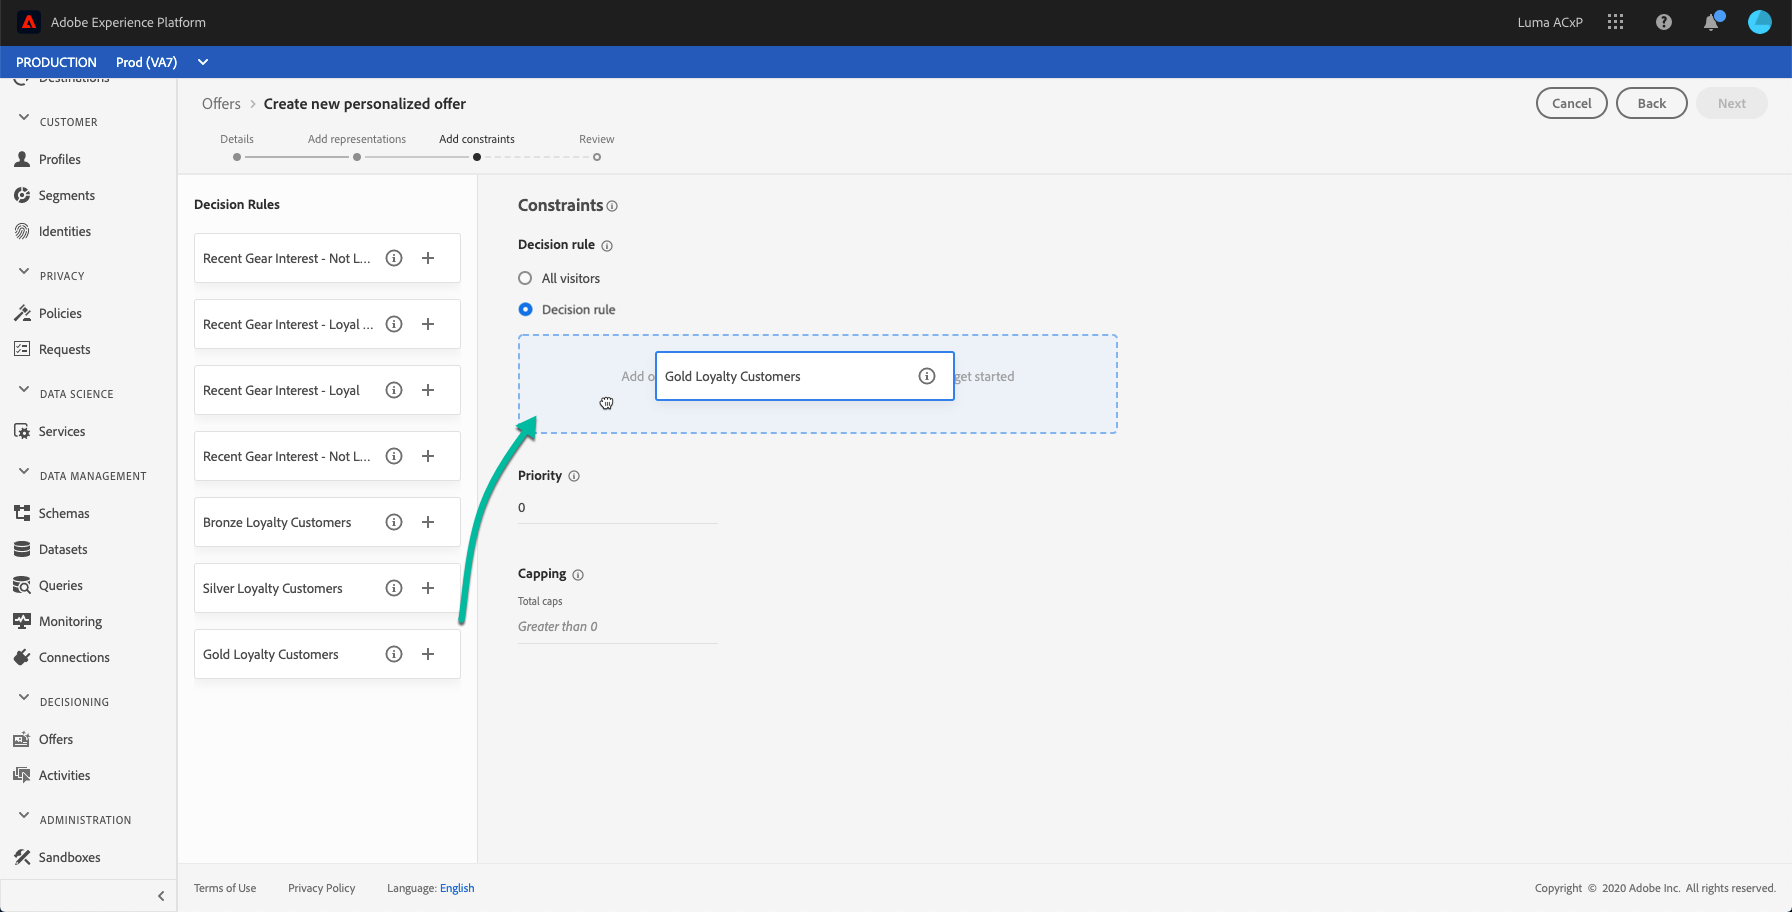
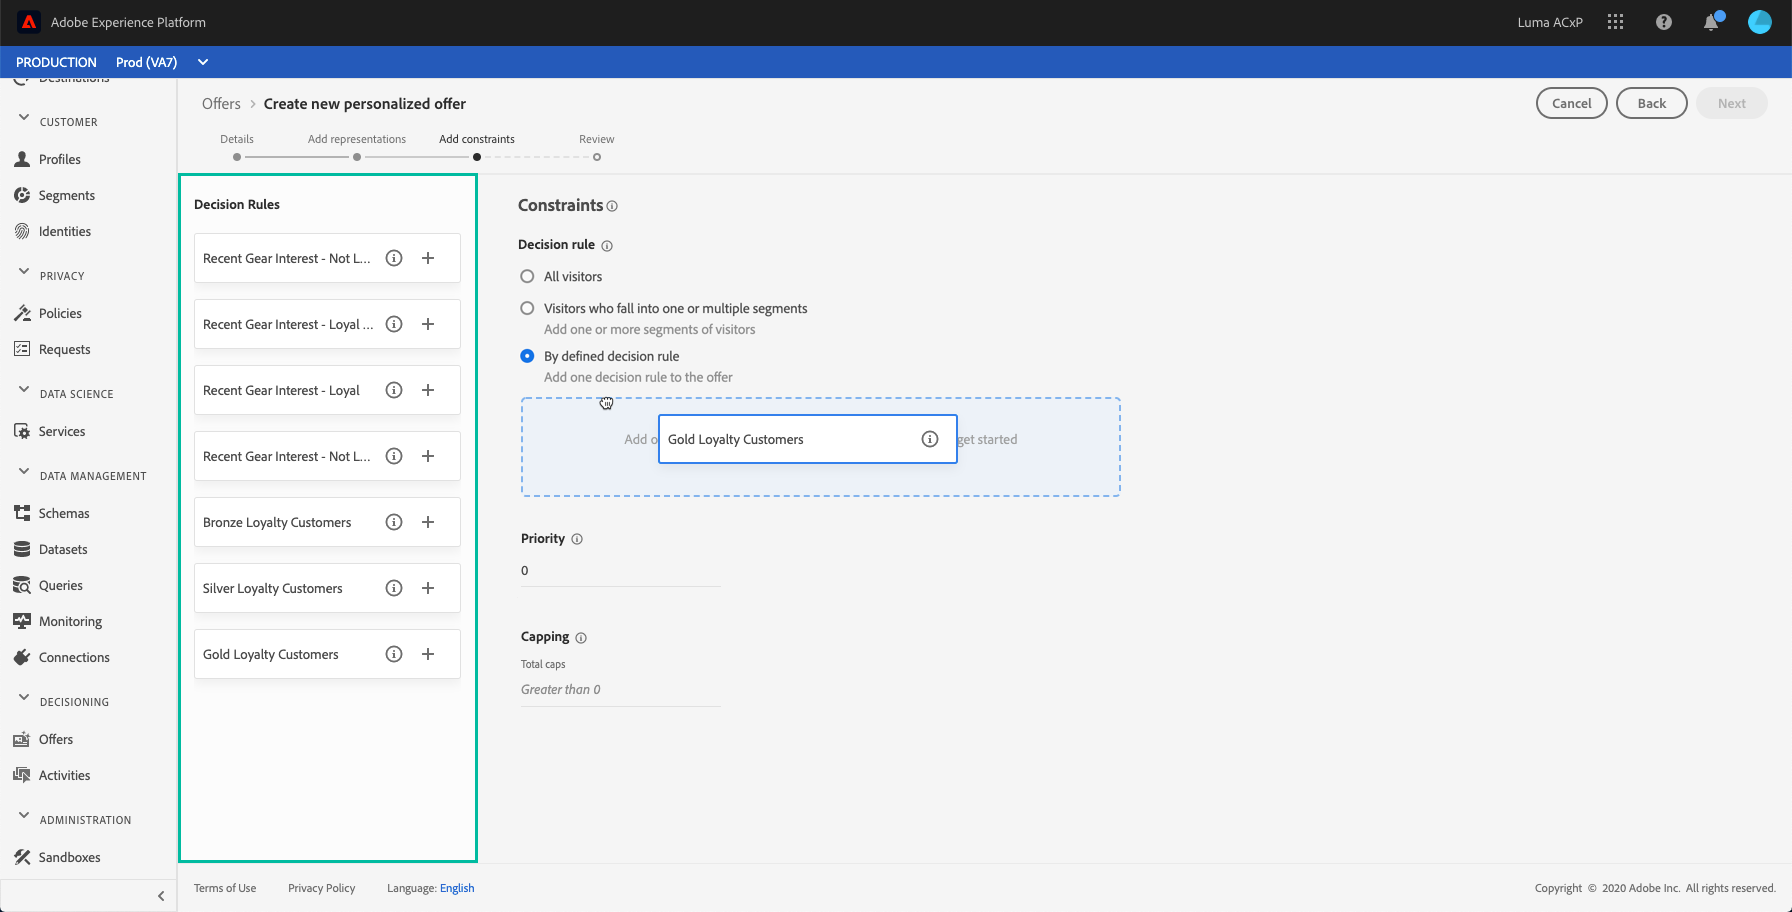
offer eligibility

diff --git a/help/offer-library/creating-personalized-offers.md b/help/offer-library/creating-personalized-offers.md
@@ -53,7 +53,7 @@ The list of personalized offers is accessible in the **[!UICONTROL Browse]** tab
 
 ![](../assets/offers_list.png)
 
-To create an offer, follow these steps:
+## Create the offer {#create-offer}
 
 1. In the **[!UICONTROL Browse]** tab, click **[!UICONTROL Create offer]**, then select **[!UICONTROL Personalized offer]**.
 
@@ -66,7 +66,9 @@ To create an offer, follow these steps:
     >[!NOTE]
     >
     >The **[!UICONTROL Offer attributes]** section allows you to associate key value pairs with the offer for reporting and analysis purposes.
-    
+
+## Configure the offer's representations {#representations}
+
 1. Add one or multiple representations for your offer using the **[!UICONTROL Add representation]** button.
 
     >[!NOTE]
@@ -105,48 +107,55 @@ To create an offer, follow these steps:
 
         ![](../assets/offer_text_content.png)
 
-1. Add eligibility rules and constraint to the offer. These are rules that will define the conditions under which an offer will be displayed.
+## Add eligibility rules and constraints {#eligibility}
 
-    1. By default, the **[!UICONTROL All visitors]** decision rule option is selected, meaning that any profile will be eligible to be presented the offer.
+Eligibility rules and constrains allow you to define the conditions under which an offer will be displayed.
+
+1. Configure the **[!UICONTROL Offer eligibility]**. By default, the **[!UICONTROL All visitors]** decision rule option is selected, meaning that any profile will be eligible to be presented the offer.
     
-        If you want to associate a specific decision rule to the offer, select the **[!UICONTROL Decision rule]** option, then drag the desired rule from the left pane into the **[!UICONTROL Decision rule]** area. For more on how to create a decision rule, refer to [this section](../offer-library/creating-decision-rules.md).
+    You can limit the presentation of the offer to the members of one or several Adobe Experience Platform segments. To do this, activate the **[!UICONTROL Visitors who fall into one or multiple segments]** option, then add one or several segments from the left pane and combine them using the **[!UICONTROL And]** / **[!UICONTROL Or]** logical operators.
 
-        ![](../assets/offer_rule.png)
+    ![](../assets/offer-eligibility-segment.png)
 
-    1. Define the **[!UICONTROL Priority]** of the offer compared to other ones if the user qualifies for more than one offer. The highest an offer's priority will be, the highest its priority will be compared to other offers
 
-    1. Specify the offer's **[!UICONTROL Capping]**, meaning the number of times the offer will be presented in total per user. If the offer has been delivered across all users the number of times you have specified in this field, its delivery will stop.
 
-        >[!NOTE]
-        >
-        >The number of times an offer is proposed is calculated at email preparation time. For example, if you prepare an email with a number of offers, those numbers count towards your max cap regardless of whether or not the email is sent.
-        >
-        >If an email delivery is deleted or if the preparation is done again before being sent, the capping value for the offer is automatically updated.
+    If you want to associate a specific decision rule to the offer, select the **[!UICONTROL Decision rule]** option, then drag the desired rule from the left pane into the **[!UICONTROL Decision rule]** area. For more on how to create a decision rule, refer to [this section](../offer-library/creating-decision-rules.md).
 
-        ![](../assets/offer_capping.png)
+    ![](../assets/offer_rule.png)
+
+1. Define the **[!UICONTROL Priority]** of the offer compared to other ones if the user qualifies for more than one offer. The highest an offer's priority will be, the highest its priority will be compared to other offers
+
+1. Specify the offer's **[!UICONTROL Capping]**, meaning the number of times the offer will be presented in total per user. If the offer has been delivered across all users the number of times you have specified in this field, its delivery will stop.
+
+    >[!NOTE]
+    >
+    >The number of times an offer is proposed is calculated at email preparation time. For example, if you prepare an email with a number of offers, those numbers count towards your max cap regardless of whether or not the email is sent.
+    >
+    >If an email delivery is deleted or if the preparation is done again before being sent, the capping value for the offer is automatically updated.
+
+    ![](../assets/offer_capping.png)
         
-        In the example above:
+    In the example above:
 
-        * The offer's priority is set to "50", meaning the offer will be presented before offers with a priority between 1 and 49, and after the ones with a priority of at least 51.
-        * The offer will be considered for users that match the "Gold Loyalty Customers" decision rule only.
-        * The offer will be presented only once per user.
+    * The offer's priority is set to "50", meaning the offer will be presented before offers with a priority between 1 and 49, and after the ones with a priority of at least 51.
+    * The offer will be considered for users that match the "Gold Loyalty Customers" decision rule only.
+    * The offer will be presented only once per user.
 
-1. Once eligibility rules and constraints have been defined, a summary of the offer properties displays. If everything is configured properly and your offer is ready to be presented to users, click **[!UICONTROL Finish]**, then select **[!UICONTROL Save and approve]**.
+## Review the offer {#review}
 
-    You can also save the offer as a draft, in order to edit and approve it later on. 
+Once eligibility rules and constraints have been defined, a summary of the offer properties displays. If everything is configured properly and your offer is ready to be presented to users, click **[!UICONTROL Finish]**, then select **[!UICONTROL Save and approve]**.
 
-    ![](../assets/offer_review.png)
+You can also save the offer as a draft, in order to edit and approve it later on. 
 
-1. The offer displays in the list with the **[!UICONTROL Live]** or **[!UICONTROL Draft]** status, depending on wether you approved it or not in the previous step.
+![](../assets/offer_review.png)
 
-    It is now ready to be delivered to users. You can select it to display its properties and edit or suppress it.
+The offer displays in the list with the **[!UICONTROL Live]** or **[!UICONTROL Draft]** status, depending on wether you approved it or not in the previous step.
 
-    ![](../assets/offer_created.png)
+It is now ready to be delivered to users. You can select it to display its properties and edit or suppress it.
 
+![](../assets/offer_created.png)
 
 Once an offer has been created, you can click its name in the list to access detailed information, as well as monitor all the changes that have been made to it using the **[!UICONTROL Change log]** tab (see [Monitoring changes to offers and offer activities](../get-started/user-interface.md#monitoring-changes)).
-
-
 
 ## Tutorial video {#video}
 
